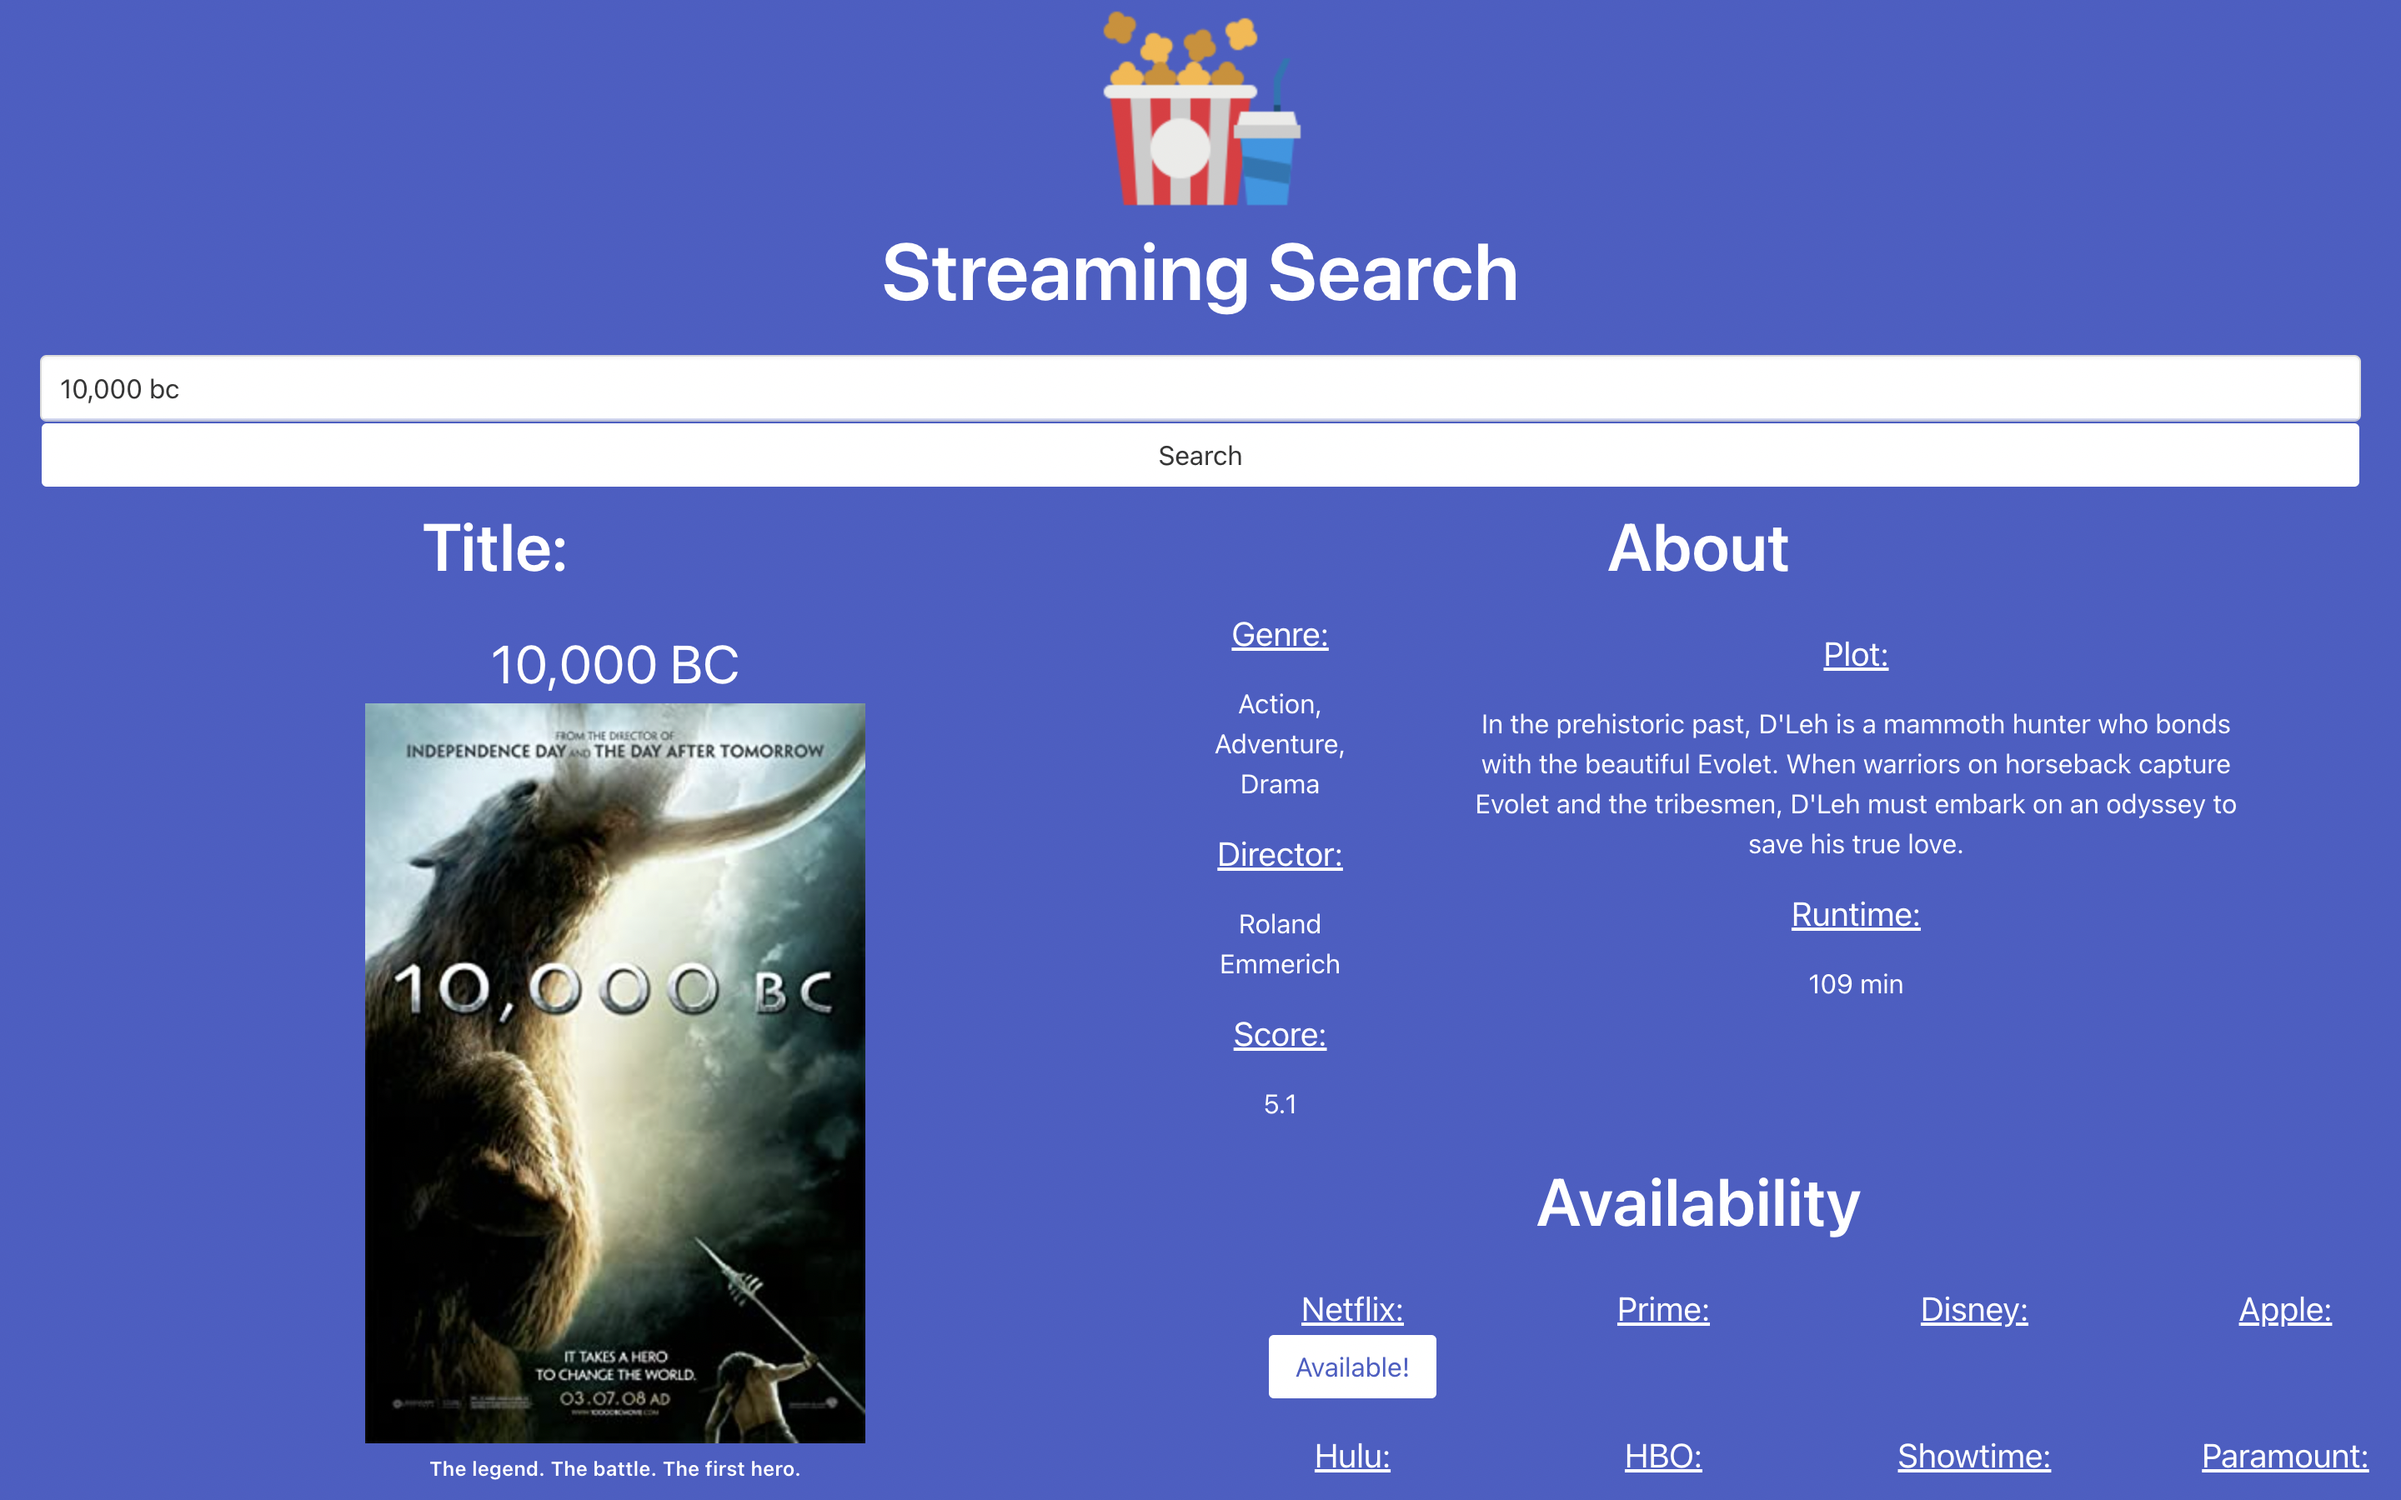
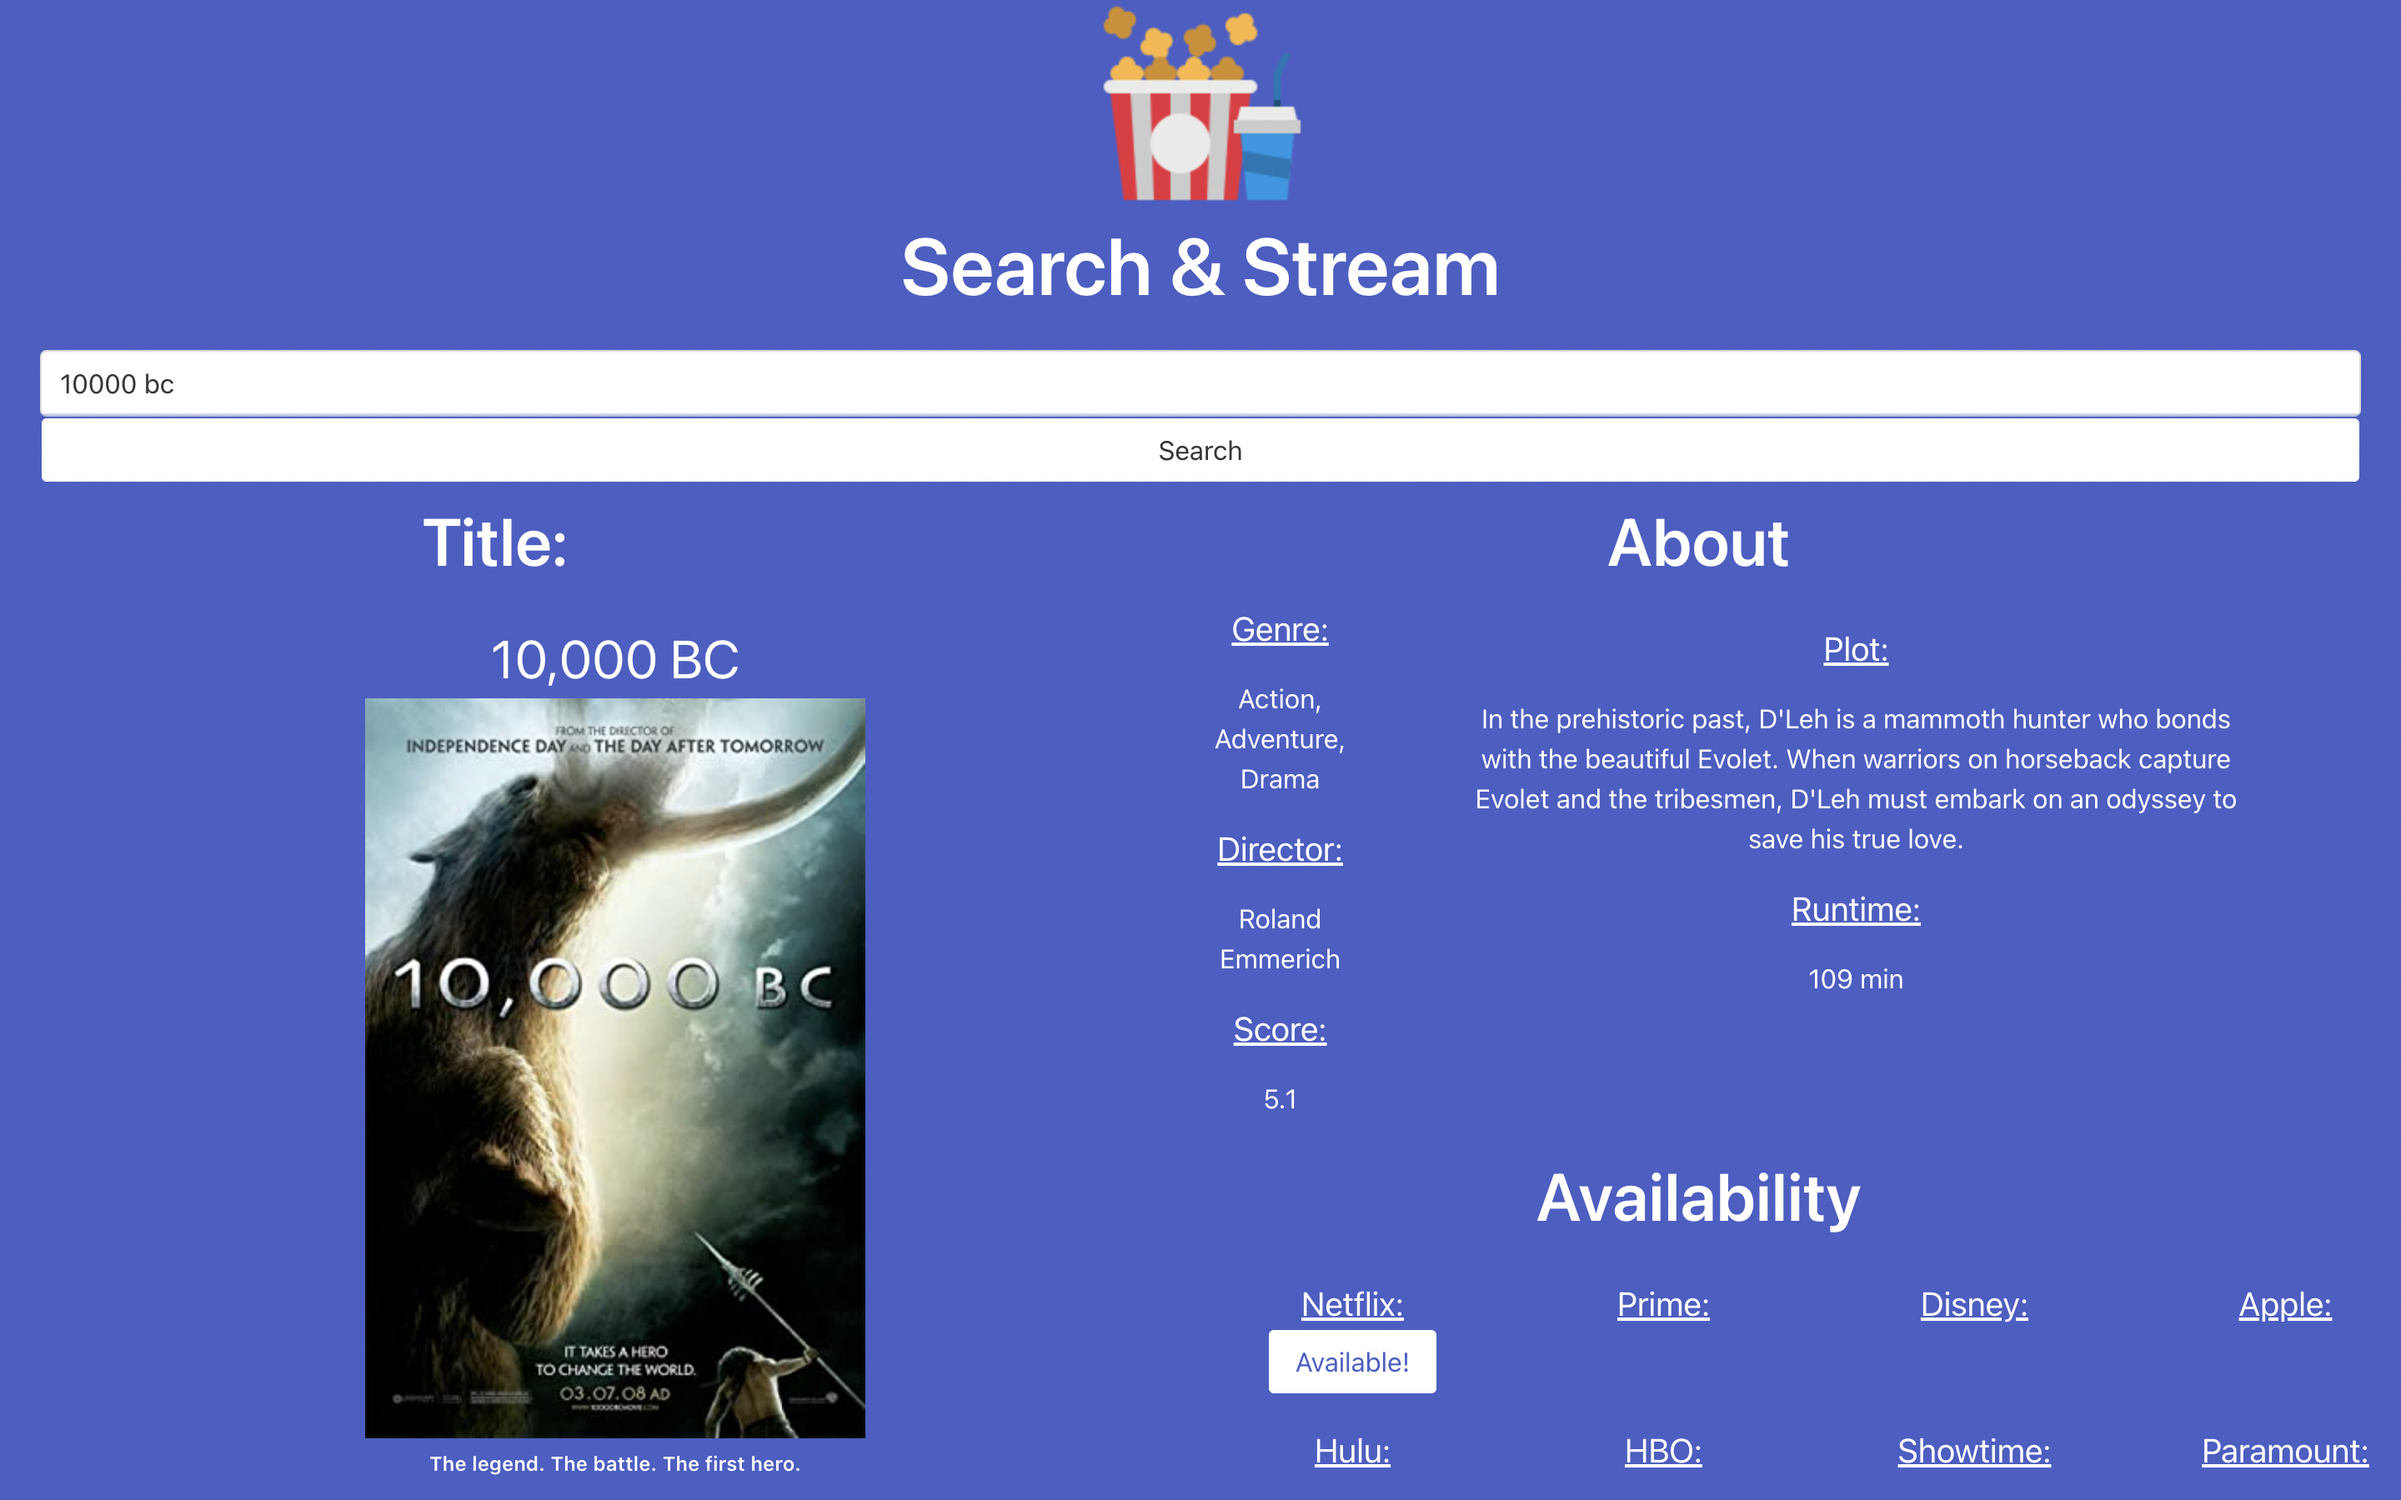
changed search name

diff --git a/src/components/Resume/index.js b/src/components/Resume/index.js
@@ -13,7 +13,6 @@ function Resume() {
             <p class="aboutInfo" className="aboutInfo">
               {" "}
               <h4 class="text-white-50">
-               
                 <a href="https://drive.google.com/file/d/11wPgvuIJAW4KDKZhj8WzUMHuSoPlzlLP/view?usp=sharing">
                   {" "}
                   <h3> Feel free to view my resume here!</h3>

diff --git a/src/components/Portfolio/index.js b/src/components/Portfolio/index.js
@@ -37,7 +37,7 @@ function Portfolio({ handleClick }) {
                   <h3>
                     <a role="img" aria-label="camera">
                       {" "}
-                      Movie-Stream
+                      Search-n-Stream
                     </a>
                   </h3>
                 </a>

diff --git a/src/components/Movie/index.js b/src/components/Movie/index.js
@@ -5,7 +5,7 @@ function Movie() {
   return (
     <section className="my-5">
       <h2 id="about" class="text-center varela-font">
-        Movie-Stream
+      Search and Stream
       </h2>
 
       <div className="my-2 borderBox">
